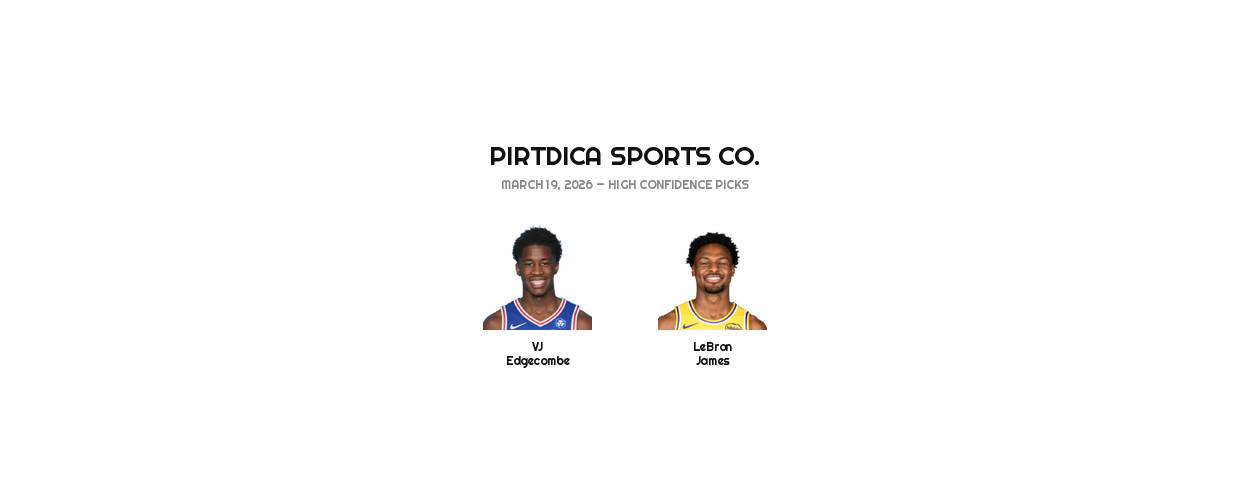
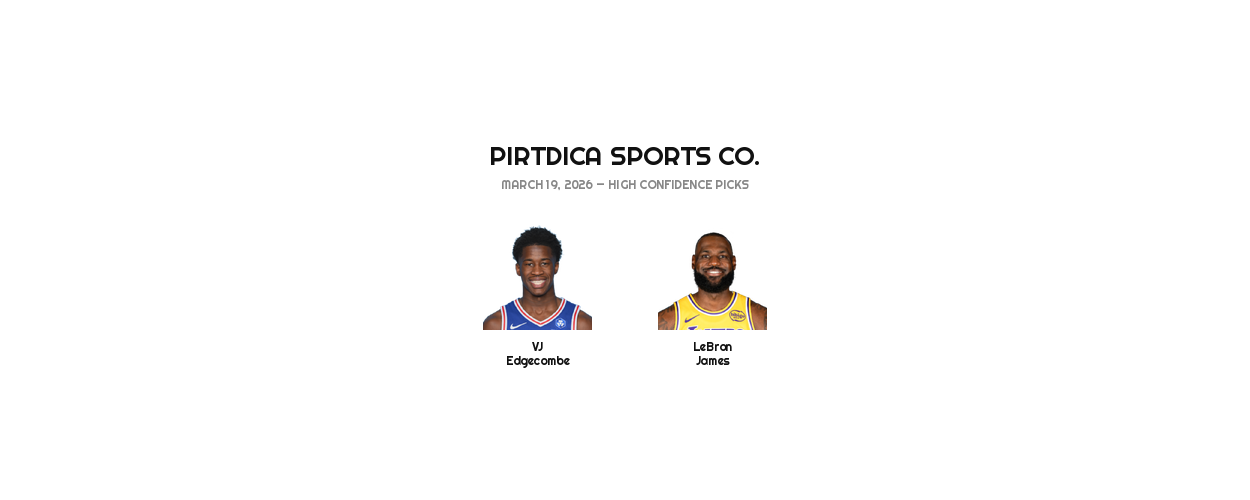
Daily pipeline update (2026-03-19 22:57)

Changed region(s): [[0.5304, 0.45, 0.624, 0.66]]

diff --git a/generate_header.py b/generate_header.py
@@ -41,11 +41,20 @@ def get_espn_ids(player_names, teams):
                 fetched_rosters[tid] = requests.get(url, timeout=10).json().get('athletes', [])
             except Exception:
                 fetched_rosters[tid] = []
+        name_lower = name.lower()
         last = name.split()[-1].lower()
+        exact = None
+        partial = None
         for a in fetched_rosters[tid]:
-            if last in a.get('displayName', '').lower():
-                ids[name] = int(a['id'])
+            dn = a.get('displayName', '').lower()
+            if dn == name_lower:
+                exact = int(a['id'])
                 break
+            if partial is None and last in dn:
+                partial = int(a['id'])
+        ids[name] = exact or partial
+        if ids[name] is None:
+            del ids[name]
     return ids
 
 
